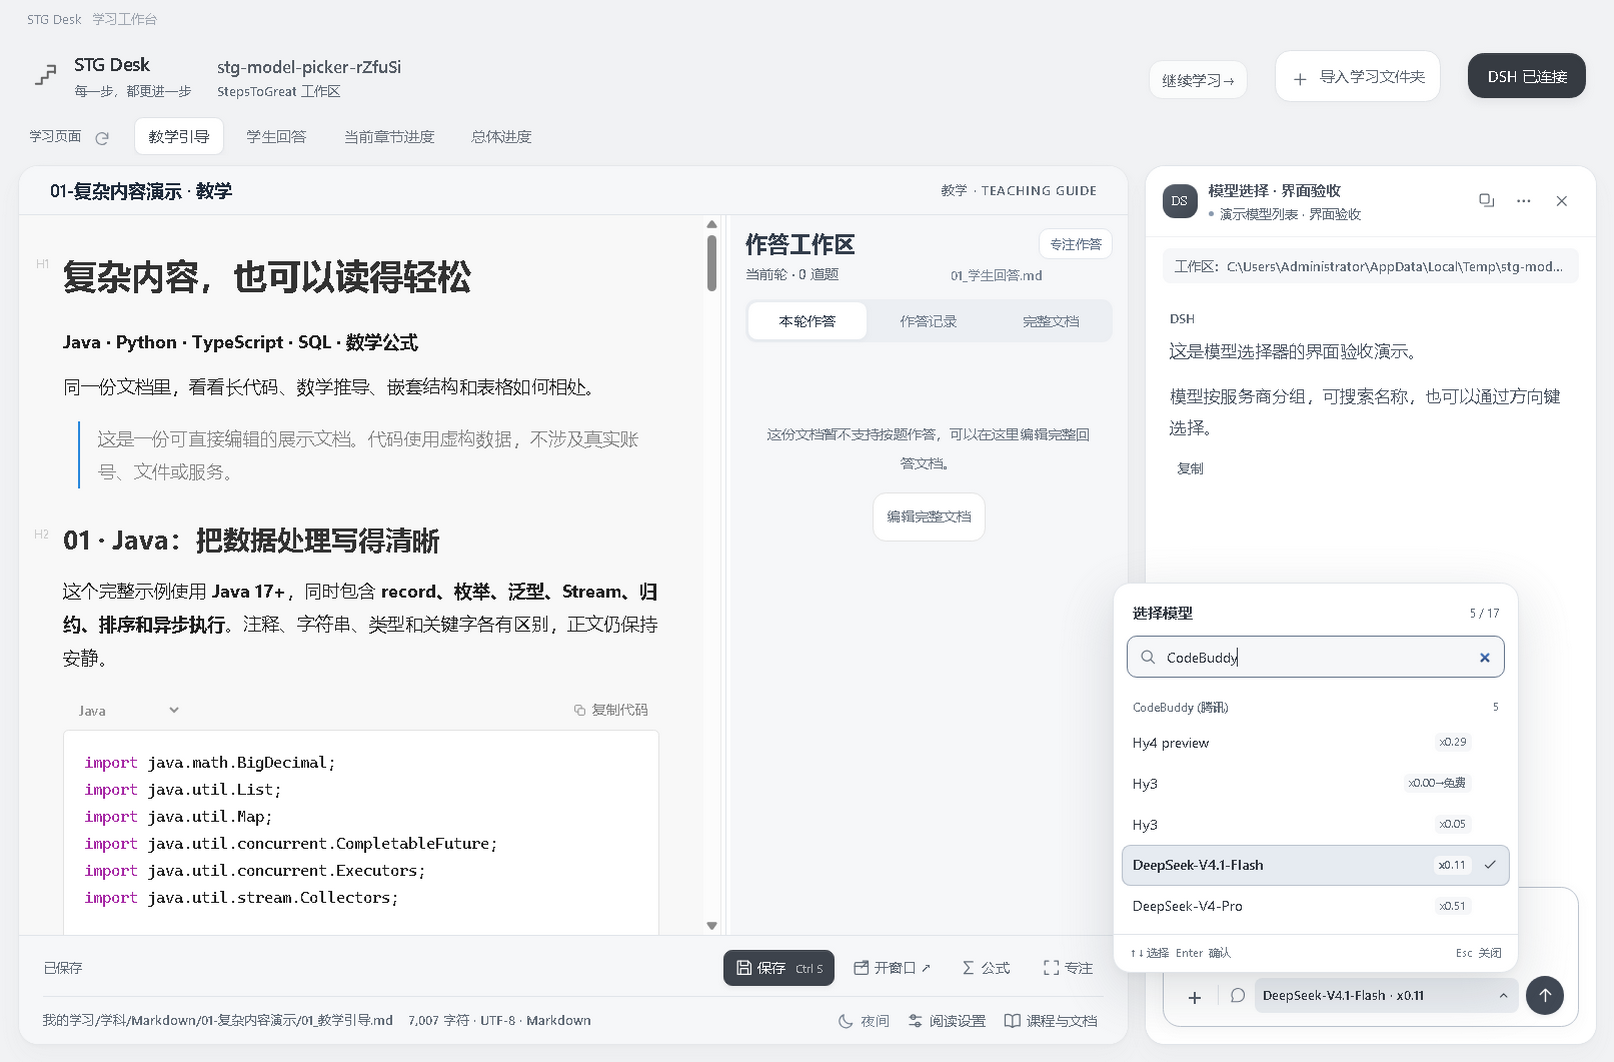
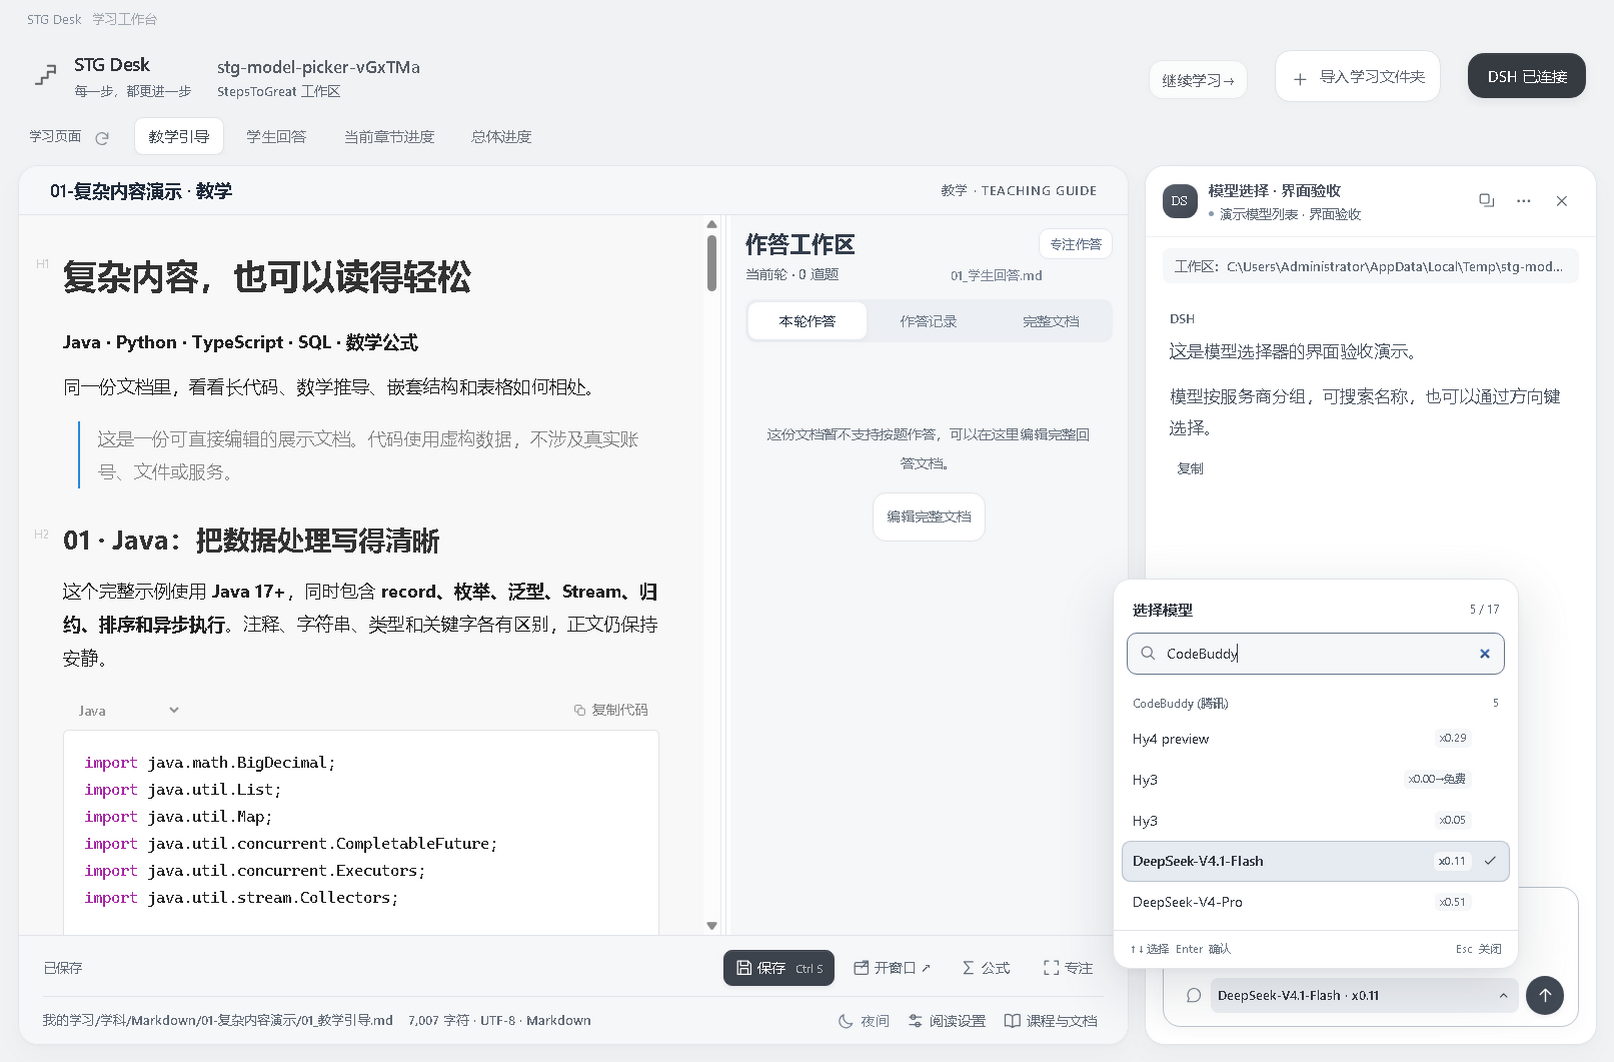
fix: remove redundant quote button and rebalance composer in v0.3.18

diff --git a/src/dsh-panel.css b/src/dsh-panel.css
@@ -1,5 +1,5 @@
 .dsh-host{position:relative;display:flex;flex-direction:column;width:420px;flex-shrink:0;min-width:360px;min-height:0;background:#fff;border-left:1px solid #e3e3e3;color:#3a3a3a}.dsh-header{height:56px;min-height:56px;border-bottom:1px solid #ececec;display:flex;gap:9px;align-items:center;padding:0 12px}.dsh-logo{display:grid;place-items:center;width:25px;height:25px;border-radius:6px;background:#505050;color:#fff;font:10px Georgia,serif;flex-shrink:0}.dsh-heading{flex:1;min-width:0;display:flex;flex-direction:column;gap:3px}.dsh-heading strong{font-size:12px;font-weight:500;overflow:hidden;text-overflow:ellipsis;white-space:nowrap}.dsh-heading small{font-size:10px;color:#999;overflow:hidden;text-overflow:ellipsis;white-space:nowrap}.dsh-window-actions{display:flex;gap:1px;flex-shrink:0}.dsh-window-actions button{width:27px;height:28px;border:0;padding:5px;background:transparent;color:#777}.dsh-window-actions button:hover,.dsh-window-actions button.active{background:#f0f0f0;color:#333}.dsh-more-menu{position:absolute;z-index:20;right:10px;top:49px;width:146px;background:#fff;border:1px solid #ddd;border-radius:8px;box-shadow:0 8px 24px #00000010;padding:5px}.dsh-more-menu button{display:block;width:100%;text-align:left;border:0;background:none;font-size:12px;padding:9px 10px}.dsh-more-menu button:hover{background:#f4f4f4}
-.dsh-conversation{flex:1;min-height:0;overflow:auto;padding:18px 16px;scrollbar-width:thin;overflow-wrap:anywhere}.dsh-context{display:inline-block;max-width:100%;font-size:10px;color:#8c8c8c;border:1px solid #eee;background:#fafafa;border-radius:12px;padding:5px 9px;margin-bottom:16px}.dsh-empty{padding:55px 10px;color:#999;text-align:center;font-size:12px;line-height:1.9}.dsh-empty>span{display:block;color:#aaa;font:22px Georgia,serif;margin-bottom:15px}.dsh-empty h3{font-size:15px;font-weight:400;color:#666}.dsh-message{display:flex;flex-direction:column;align-items:flex-start;margin-bottom:24px;gap:7px}.dsh-message>small{font-size:10px;color:#aaa}.dsh-message.user{align-items:flex-end}.dsh-message-text{font-size:14px;line-height:1.75;max-width:100%;min-width:0;overflow-wrap:anywhere}.dsh-message.user .dsh-message-text{max-width:85%;background:#f0f0f0;border-radius:11px;padding:10px 13px;white-space:normal}.dsh-message.error .dsh-message-text{color:#83675e;background:#faf6f4;border-radius:8px;padding:10px 12px;font-size:12px}.dsh-message .markdown-body{font-size:14px;line-height:1.75;width:100%;color:#444}.dsh-message .markdown-body p{margin:0 0 12px}.dsh-message .markdown-body p:last-child{margin-bottom:0}.dsh-message .markdown-body h1,.dsh-message .markdown-body h2,.dsh-message .markdown-body h3{font-size:15px;font-weight:500;margin:10px 0;border:0;padding:0}.dsh-message .markdown-body pre{font-size:12px;padding:12px;background:#fafafa;border:1px solid #e9e9e9;max-width:100%;overflow:auto}.dsh-message .markdown-body table{font-size:11px;max-width:100%}.dsh-composer{flex-shrink:0;border-top:1px solid #eee;padding:11px 12px 12px;background:#fff}.dsh-input-box{border:1px solid #dedede;background:#fcfcfc;border-radius:10px;padding:8px 7px 6px}.dsh-input-box:focus-within{border-color:#aaa}.dsh-input-box textarea{display:block;width:100%;min-height:54px;max-height:148px;resize:none;padding:1px 4px 5px;border:0;background:none;outline:none!important;box-shadow:none;font-size:13px;line-height:1.65;color:#444}.dsh-input-box textarea::placeholder{color:#aaa}.dsh-input-tools{display:flex;align-items:center;gap:5px}.dsh-input-tools #dsh-quote{height:28px;width:26px;padding:0;background:none;border:0;font-size:20px;color:#888}.dsh-input-tools select{flex:1;min-width:0;max-width:230px;border:0;height:27px;font-size:11px;color:#666;background:transparent;border-radius:4px;cursor:pointer;outline-offset:1px}.dsh-input-tools select:disabled{color:#aaa;cursor:default}.dsh-input-tools #dsh-send{margin-left:auto;flex-shrink:0;background:#505050;color:#fff;border:0;padding:7px 11px;font-size:11px;border-radius:6px}.dsh-input-tools #dsh-send:disabled{background:#e8e8e8;color:#aaa;cursor:default}
+.dsh-conversation{flex:1;min-height:0;overflow:auto;padding:18px 16px;scrollbar-width:thin;overflow-wrap:anywhere}.dsh-context{display:inline-block;max-width:100%;font-size:10px;color:#8c8c8c;border:1px solid #eee;background:#fafafa;border-radius:12px;padding:5px 9px;margin-bottom:16px}.dsh-empty{padding:55px 10px;color:#999;text-align:center;font-size:12px;line-height:1.9}.dsh-empty>span{display:block;color:#aaa;font:22px Georgia,serif;margin-bottom:15px}.dsh-empty h3{font-size:15px;font-weight:400;color:#666}.dsh-message{display:flex;flex-direction:column;align-items:flex-start;margin-bottom:24px;gap:7px}.dsh-message>small{font-size:10px;color:#aaa}.dsh-message.user{align-items:flex-end}.dsh-message-text{font-size:14px;line-height:1.75;max-width:100%;min-width:0;overflow-wrap:anywhere}.dsh-message.user .dsh-message-text{max-width:85%;background:#f0f0f0;border-radius:11px;padding:10px 13px;white-space:normal}.dsh-message.error .dsh-message-text{color:#83675e;background:#faf6f4;border-radius:8px;padding:10px 12px;font-size:12px}.dsh-message .markdown-body{font-size:14px;line-height:1.75;width:100%;color:#444}.dsh-message .markdown-body p{margin:0 0 12px}.dsh-message .markdown-body p:last-child{margin-bottom:0}.dsh-message .markdown-body h1,.dsh-message .markdown-body h2,.dsh-message .markdown-body h3{font-size:15px;font-weight:500;margin:10px 0;border:0;padding:0}.dsh-message .markdown-body pre{font-size:12px;padding:12px;background:#fafafa;border:1px solid #e9e9e9;max-width:100%;overflow:auto}.dsh-message .markdown-body table{font-size:11px;max-width:100%}.dsh-composer{flex-shrink:0;border-top:1px solid #eee;padding:11px 12px 12px;background:#fff}.dsh-input-box{border:1px solid #dedede;background:#fcfcfc;border-radius:10px;padding:8px 7px 6px}.dsh-input-box:focus-within{border-color:#aaa}.dsh-input-box textarea{display:block;width:100%;min-height:54px;max-height:148px;resize:none;padding:1px 4px 5px;border:0;background:none;outline:none!important;box-shadow:none;font-size:13px;line-height:1.65;color:#444}.dsh-input-box textarea::placeholder{color:#aaa}.dsh-input-tools{display:flex;align-items:center;gap:5px}.dsh-input-tools select{flex:1;min-width:0;max-width:230px;border:0;height:27px;font-size:11px;color:#666;background:transparent;border-radius:4px;cursor:pointer;outline-offset:1px}.dsh-input-tools select:disabled{color:#aaa;cursor:default}.dsh-input-tools #dsh-send{margin-left:auto;flex-shrink:0;background:#505050;color:#fff;border:0;padding:7px 11px;font-size:11px;border-radius:6px}.dsh-input-tools #dsh-send:disabled{background:#e8e8e8;color:#aaa;cursor:default}
 .dsh-only .dsh-header{-webkit-app-region:drag}.dsh-only .dsh-header button{-webkit-app-region:no-drag}.dsh-only .dsh-host{min-width:0}
 @media(max-width:1250px){.dsh-host{width:360px}.dsh-conversation{padding:16px 13px}.dsh-header{padding:0 10px}.dsh-window-actions button{width:24px}}
 .dsh-connect-bar{margin:0 18px 10px;padding:12px;background:#f3f4f6;border:1px solid #e6e8ed;border-radius:16px;display:flex;align-items:center;gap:8px;flex-wrap:wrap;font-size:12px;color:#78818e}

diff --git a/src/dsh-panel.js b/src/dsh-panel.js
@@ -9,7 +9,7 @@ export function mountDsh({api,renderMD,escape,icon,dshOnly=false}){
   if(!host)return;
   const dockIcon=icon('<rect x="3" y="4" width="18" height="16" rx="2"/><path d="M14 4v16"/>',16);
   const floatIcon=icon('<rect x="3" y="3" width="12" height="12" rx="2"/><path d="M9 19h12V9"/>',16);
-  host.innerHTML=`<header class="dsh-header"><span class="dsh-logo">DS</span><div class="dsh-heading"><strong id="dsh-title">DSH 导师</strong><small id="dsh-status">尚未连接</small></div><div class="dsh-window-actions"><button id="dsh-detach" title="独立小窗" aria-label="独立小窗">${floatIcon}</button><button id="dsh-pin" class="${dshOnly?'':'hidden'}" title="置顶" aria-label="置顶">${icon('<path d="M9 3h6l-1 5 4 4H6l4-4ZM12 12v9"/>',16)}</button><button id="dsh-more" title="更多" aria-label="更多">${icon('<circle cx="5" cy="12" r="1"/><circle cx="12" cy="12" r="1"/><circle cx="19" cy="12" r="1"/>',16)}</button><button id="dsh-close" title="收起 DSH" aria-label="收起 DSH">${icon('<path d="m6 6 12 12M18 6 6 18"/>',16)}</button></div></header><div id="dsh-more-menu" class="dsh-more-menu hidden"><button id="dsh-reconnect">重新连接</button><button id="dsh-new">新会话</button></div><div class="dsh-conversation" id="dsh-conversation" role="log" aria-label="当前 DSH 会话"><div id="dsh-context" class="dsh-context hidden"></div><div id="dsh-messages"></div></div><div class="dsh-composer"><div class="dsh-input-box"><textarea id="dsh-input" rows="2" placeholder="提问，或告诉导师你的学习目标…" aria-label="发送给 DSH 的消息"></textarea><div class="dsh-input-tools"><button id="dsh-quote" title="引用当前文档" aria-label="引用当前文档">＋</button><select id="dsh-model" aria-label="切换模型" title="切换模型"><option value="">连接后选择模型</option></select><button id="dsh-send" disabled>发送 ${icon('<path d="M4 12h15m-6-6 6 6-6 6"/>',13)}</button></div></div></div>`;
+  host.innerHTML=`<header class="dsh-header"><span class="dsh-logo">DS</span><div class="dsh-heading"><strong id="dsh-title">DSH 导师</strong><small id="dsh-status">尚未连接</small></div><div class="dsh-window-actions"><button id="dsh-detach" title="独立小窗" aria-label="独立小窗">${floatIcon}</button><button id="dsh-pin" class="${dshOnly?'':'hidden'}" title="置顶" aria-label="置顶">${icon('<path d="M9 3h6l-1 5 4 4H6l4-4ZM12 12v9"/>',16)}</button><button id="dsh-more" title="更多" aria-label="更多">${icon('<circle cx="5" cy="12" r="1"/><circle cx="12" cy="12" r="1"/><circle cx="19" cy="12" r="1"/>',16)}</button><button id="dsh-close" title="收起 DSH" aria-label="收起 DSH">${icon('<path d="m6 6 12 12M18 6 6 18"/>',16)}</button></div></header><div id="dsh-more-menu" class="dsh-more-menu hidden"><button id="dsh-reconnect">重新连接</button><button id="dsh-new">新会话</button></div><div class="dsh-conversation" id="dsh-conversation" role="log" aria-label="当前 DSH 会话"><div id="dsh-context" class="dsh-context hidden"></div><div id="dsh-messages"></div></div><div class="dsh-composer"><div class="dsh-input-box"><textarea id="dsh-input" rows="2" placeholder="提问，或告诉导师你的学习目标…" aria-label="发送给 DSH 的消息"></textarea><div class="dsh-input-tools"><select id="dsh-model" aria-label="切换模型" title="切换模型"><option value="">连接后选择模型</option></select><button id="dsh-send" disabled>发送 ${icon('<path d="M4 12h15m-6-6 6 6-6 6"/>',13)}</button></div></div></div>`;
   const $=id=>host.querySelector('#'+id);
   if(dshOnly){
     host.querySelector('.dsh-logo').remove();
@@ -84,7 +84,6 @@ export function mountDsh({api,renderMD,escape,icon,dshOnly=false}){
   host.addEventListener('focusout',()=>queueMicrotask(()=>{if(!menu.contains(document.activeElement)&&document.activeElement!==more)closeMenu();}));
   $('dsh-reconnect').onclick=()=>{closeMenu();api.dshConnect().catch(showError);};
   $('dsh-new').onclick=()=>{closeMenu();if(!current.busy&&window.confirm('在 DSH 中开始新会话？当前对话仍保留在 DSH 历史中。'))api.dshNew().catch(showError);};
-  $('dsh-quote').onclick=()=>api.dshQuote().catch(showError);
   document.querySelector('#open-dsh')?.addEventListener('click',()=>api?.dshVisible(true).catch(showError));
   api?.onDshState(show);api?.dshState().then(show).catch(showError);
   if(!api)show({status:'请使用桌面应用连接 DSH',messages:[],models:[]});

diff --git a/src/refined-surfaces.css b/src/refined-surfaces.css
@@ -50,7 +50,7 @@ button.primary{border-radius:12px;box-shadow:0 2px 4px #24292f0d,inset 0 1px 0 #
 .dsh-message.error .dsh-message-text{border-radius:14px}.dsh-message .markdown-body pre{border-radius:13px;background:#f7f8fa;border-color:#e9ecf0}
 .dsh-composer{background:#fff;border-top:0;padding:9px 13px 14px}.dsh-input-box{border-radius:18px;border-color:#e0e5eb;background:#fafbfd;padding:12px 10px 9px;box-shadow:0 3px 10px #26344604,inset 0 1px 0 #fff;transition:border-color .2s,box-shadow .2s,background .2s}
 .dsh-input-box:focus-within{background:#fff;border-color:#aeb8c6;box-shadow:0 0 0 3px #7785990c,0 4px 14px #26344605}.dsh-input-box textarea{font-size:13px;padding:2px 5px 9px;min-height:60px;color:#535e6e;line-height:1.8}
-.dsh-input-box textarea::placeholder{color:#a0a9b5}.dsh-input-tools{gap:7px}.dsh-input-tools #dsh-quote{border-radius:9px;color:#8993a0}.dsh-input-tools select{border-radius:9px;font-size:11px;height:31px;color:#747f8e;max-width:210px;padding-left:5px}
+.dsh-input-box textarea::placeholder{color:#a0a9b5}.dsh-input-tools{gap:7px}.dsh-input-tools select{border-radius:9px;font-size:11px;height:31px;color:#747f8e;max-width:210px;padding-left:5px}
 .dsh-input-tools #dsh-send{border-radius:11px;background:#414955;padding:9px 12px;box-shadow:inset 0 1px 0 #ffffff14}.dsh-input-tools #dsh-send:disabled{background:#e9edf2;color:#a0a9b6;box-shadow:none}
 .modal{background:#242c3940;backdrop-filter:blur(5px)}.modal-card{border-radius:23px;border:1px solid #ffffff88;box-shadow:0 24px 80px #26344626}.modal-card>header,.modal-card>footer{border-color:#edf0f3}.modal-card button{border-radius:12px}.course-list button{border-radius:14px;border-color:#e7ebf0;padding:14px 16px}.compare-grid pre,.compare-grid textarea,.backup-preview{border-radius:14px;border-color:#e4e9ef;background:#fafbfd}
 .toast{border-radius:15px;box-shadow:0 10px 35px #252d3c20;background:#414955}.change-banner{background:#f4f6f9;color:#818c9c}.drop-overlay{border-radius:24px}

diff --git a/src/dsh-polish.css b/src/dsh-polish.css
@@ -21,10 +21,8 @@
 .dsh-input-box:focus-within{background:#fff;border-color:#aac6f1;box-shadow:0 0 0 3px #a8c9ff0d,0 7px 23px #719bd520}
 .dsh-input-box textarea{min-height:61px;padding:4px 6px 10px;font-size:14px;color:#4d5765;line-height:1.75;font-weight:400}
 .dsh-input-box textarea::placeholder{color:#a0a5af;font-weight:500}
-.dsh-input-tools{gap:6px;min-height:35px}
-.dsh-input-tools #dsh-quote{display:grid;place-items:center;width:31px;height:32px;flex-shrink:0;font-size:23px;color:#58616d;border-radius:10px;transition:background-color 160ms,transform 160ms}
-.dsh-input-tools #dsh-quote:hover{background:#f2f4f7;transform:translateY(-1px)}
-.dsh-model-icon{display:flex;align-items:center;justify-content:center;flex-shrink:0;width:27px;height:18px;border-left:1px solid #e3e7ec;padding-left:7px;color:#727b89;pointer-events:none}
+.dsh-input-tools{gap:6px;min-height:35px;padding-left:6px}
+.dsh-model-icon{display:flex;align-items:center;justify-content:center;flex-shrink:0;width:18px;height:18px;color:#727b89;pointer-events:none}
 .dsh-input-tools select{width:0;max-width:none;flex:1;color:#707887;font-weight:500;font-size:11px;padding-left:0;height:32px;cursor:pointer}
 .dsh-input-tools #dsh-send{width:35px;height:35px;border-radius:50%;padding:0;display:grid;place-items:center;flex-shrink:0;color:#fff;background:#414955;box-shadow:0 2px 5px #303c5412;transition:background-color 160ms,transform 160ms,box-shadow 160ms}
 .dsh-input-tools #dsh-send:not(:disabled):hover{background:#303b4b;transform:translateY(-1px);box-shadow:0 4px 9px #303c5420}

diff --git a/README.en.md b/README.en.md
@@ -20,9 +20,9 @@ STG Desk is a Windows desktop workspace for [StepsToGreat](https://github.com/wi
 
 Reading, editing, and answering work independently; connect DSH when needed. Learning files stay in their original directory so a tutor or learning agent can read and update them.
 
-> This README covers [v0.3.17](https://github.com/wildcat430524/STG-Desk/releases/tag/v0.3.17). See the [release notes](https://github.com/wildcat430524/STG-Desk/releases) for version changes. The app interface is currently in Chinese.
+> This README covers [v0.3.18](https://github.com/wildcat430524/STG-Desk/releases/tag/v0.3.18). See the [release notes](https://github.com/wildcat430524/STG-Desk/releases) for version changes. The app interface is currently in Chinese.
 
-v0.3.17 adds a searchable model picker with provider groups, price badges, and a clear current selection. It also unifies workspace controls, adds adjustable pane widths, and improves narrow layouts, conversation reading, and keyboard navigation.
+v0.3.18 removes the redundant plus button and divider from the composer, and balances the spacing between model selection and send. Course context remains automatic; searchable model selection, adjustable panes, and keyboard navigation remain available.
 
 ## Preview
 
@@ -126,7 +126,7 @@ Headings, lists, tables, and formulas are organised by content level: `H1`/`H2`/
 To open it:
 
 - **Running from source**: import the `demo/EditorShowcase` directory.
-- **Using the portable build**: download the [complex-content showcase ZIP](https://github.com/wildcat430524/STG-Desk/releases/download/v0.3.17/STG-Desk-0.3.17-EditorShowcase.zip), extract it, and import the `EditorShowcase` root folder. You can also read the [demo source](demo/EditorShowcase) and [showcase lesson](demo/EditorShowcase/我的学习/学科/Markdown/01-复杂内容演示/01_教学引导.md) directly.
+- **Using the portable build**: download the [complex-content showcase ZIP](https://github.com/wildcat430524/STG-Desk/releases/download/v0.3.18/STG-Desk-0.3.18-EditorShowcase.zip), extract it, and import the `EditorShowcase` root folder. You can also read the [demo source](demo/EditorShowcase) and [showcase lesson](demo/EditorShowcase/我的学习/学科/Markdown/01-复杂内容演示/01_教学引导.md) directly.
 - After importing, 「选择课程」 (Choose lesson) lists this showcase lesson at `我的学习/学科/Markdown/01-复杂内容演示/`. The welcome screen's [bundled demo lessons](demo/StepsToGreat) open a separate workspace.
 
 > The Java example targets Java 17+ and was only reviewed, not compiled: this machine runs Java 11. The Python example was executed. The showcase demonstrates layout and editing behaviour; it is not a learning assessment.

diff --git a/README.md b/README.md
@@ -20,9 +20,9 @@ STG Desk 是面向 [StepsToGreat](https://github.com/wildcat430524/StepsToGreat)
 
 阅读、编辑和作答可以独立使用，DSH 对话按需连接。学习资料仍保存在原目录中，便于导师或学习 Agent 接着读取和更新。
 
-> 本文对应 [v0.3.17](https://github.com/wildcat430524/STG-Desk/releases/tag/v0.3.17)，各版本变化见 [发布说明](https://github.com/wildcat430524/STG-Desk/releases)。应用界面目前为中文。
+> 本文对应 [v0.3.18](https://github.com/wildcat430524/STG-Desk/releases/tag/v0.3.18)，各版本变化见 [发布说明](https://github.com/wildcat430524/STG-Desk/releases)。应用界面目前为中文。
 
-v0.3.17 带来可搜索、按服务商分组的模型选择面板，清楚标出价格和当前模型；同时统一工作台控件，支持调整面板宽度，并改善窄窗口、对话阅读与键盘操作。
+v0.3.18 移除输入区重复的加号按钮和分隔线，重新整理模型选择与发送按钮的间距。课程资料继续自动关联；保留可搜索的模型菜单、面板宽度调整与键盘操作。
 
 ## 界面预览
 
@@ -126,7 +126,7 @@ C/C++ · C# · Go · Rust · Kotlin · YAML · Markdown · Diff · 纯文本
 导入方式：
 
 - **从源码运行**：导入 `demo/EditorShowcase` 目录。
-- **使用便携版**：下载 [复杂内容演示 ZIP](https://github.com/wildcat430524/STG-Desk/releases/download/v0.3.17/STG-Desk-0.3.17-EditorShowcase.zip)，解压后导入 `EditorShowcase` 根目录。也可以直接查看 [演示源码](demo/EditorShowcase) 和 [教学文档](demo/EditorShowcase/我的学习/学科/Markdown/01-复杂内容演示/01_教学引导.md)。
+- **使用便携版**：下载 [复杂内容演示 ZIP](https://github.com/wildcat430524/STG-Desk/releases/download/v0.3.18/STG-Desk-0.3.18-EditorShowcase.zip)，解压后导入 `EditorShowcase` 根目录。也可以直接查看 [演示源码](demo/EditorShowcase) 和 [教学文档](demo/EditorShowcase/我的学习/学科/Markdown/01-复杂内容演示/01_教学引导.md)。
 - 导入后「选择课程」会列出这门演示课程（路径为 `我的学习/学科/Markdown/01-复杂内容演示/`），与内置的 [示例课程](demo/StepsToGreat) 相互独立。
 
 > 演示中的 Java 示例按 Java 17+ 语法编写，仅经过审查，未在本机 Java 11 环境编译；Python 示例已实际运行。示例用于展示排版与编辑效果，不代表学习评估。

diff --git a/docs/releases/v0.3.18.md b/docs/releases/v0.3.18.md
@@ -1,0 +1,12 @@
+STG Desk 0.3.18
+
+- 移除 DSH 输入区重复的「引用当前文档」加号按钮。
+- 同时去掉遗留分隔线，调整左侧图标、模型选择与发送按钮的间距，保持输入区对齐。
+- 侧栏与独立小窗使用相同布局，适配明暗主题与窗口缩放。
+- 相关的已保存课程资料继续自动随消息发送。
+
+验证：185 项自动测试通过；原生 Electron 检查模型选择、键盘操作、明暗主题、125% 缩放及独立小窗布局。
+
+![精简后的输入区，使用演示模型验收](https://raw.githubusercontent.com/wildcat430524/STG-Desk/v0.3.18/docs/screenshots/composer.png)
+
+下载 `STG-Desk-0.3.18-Windows.exe` 双击运行。
